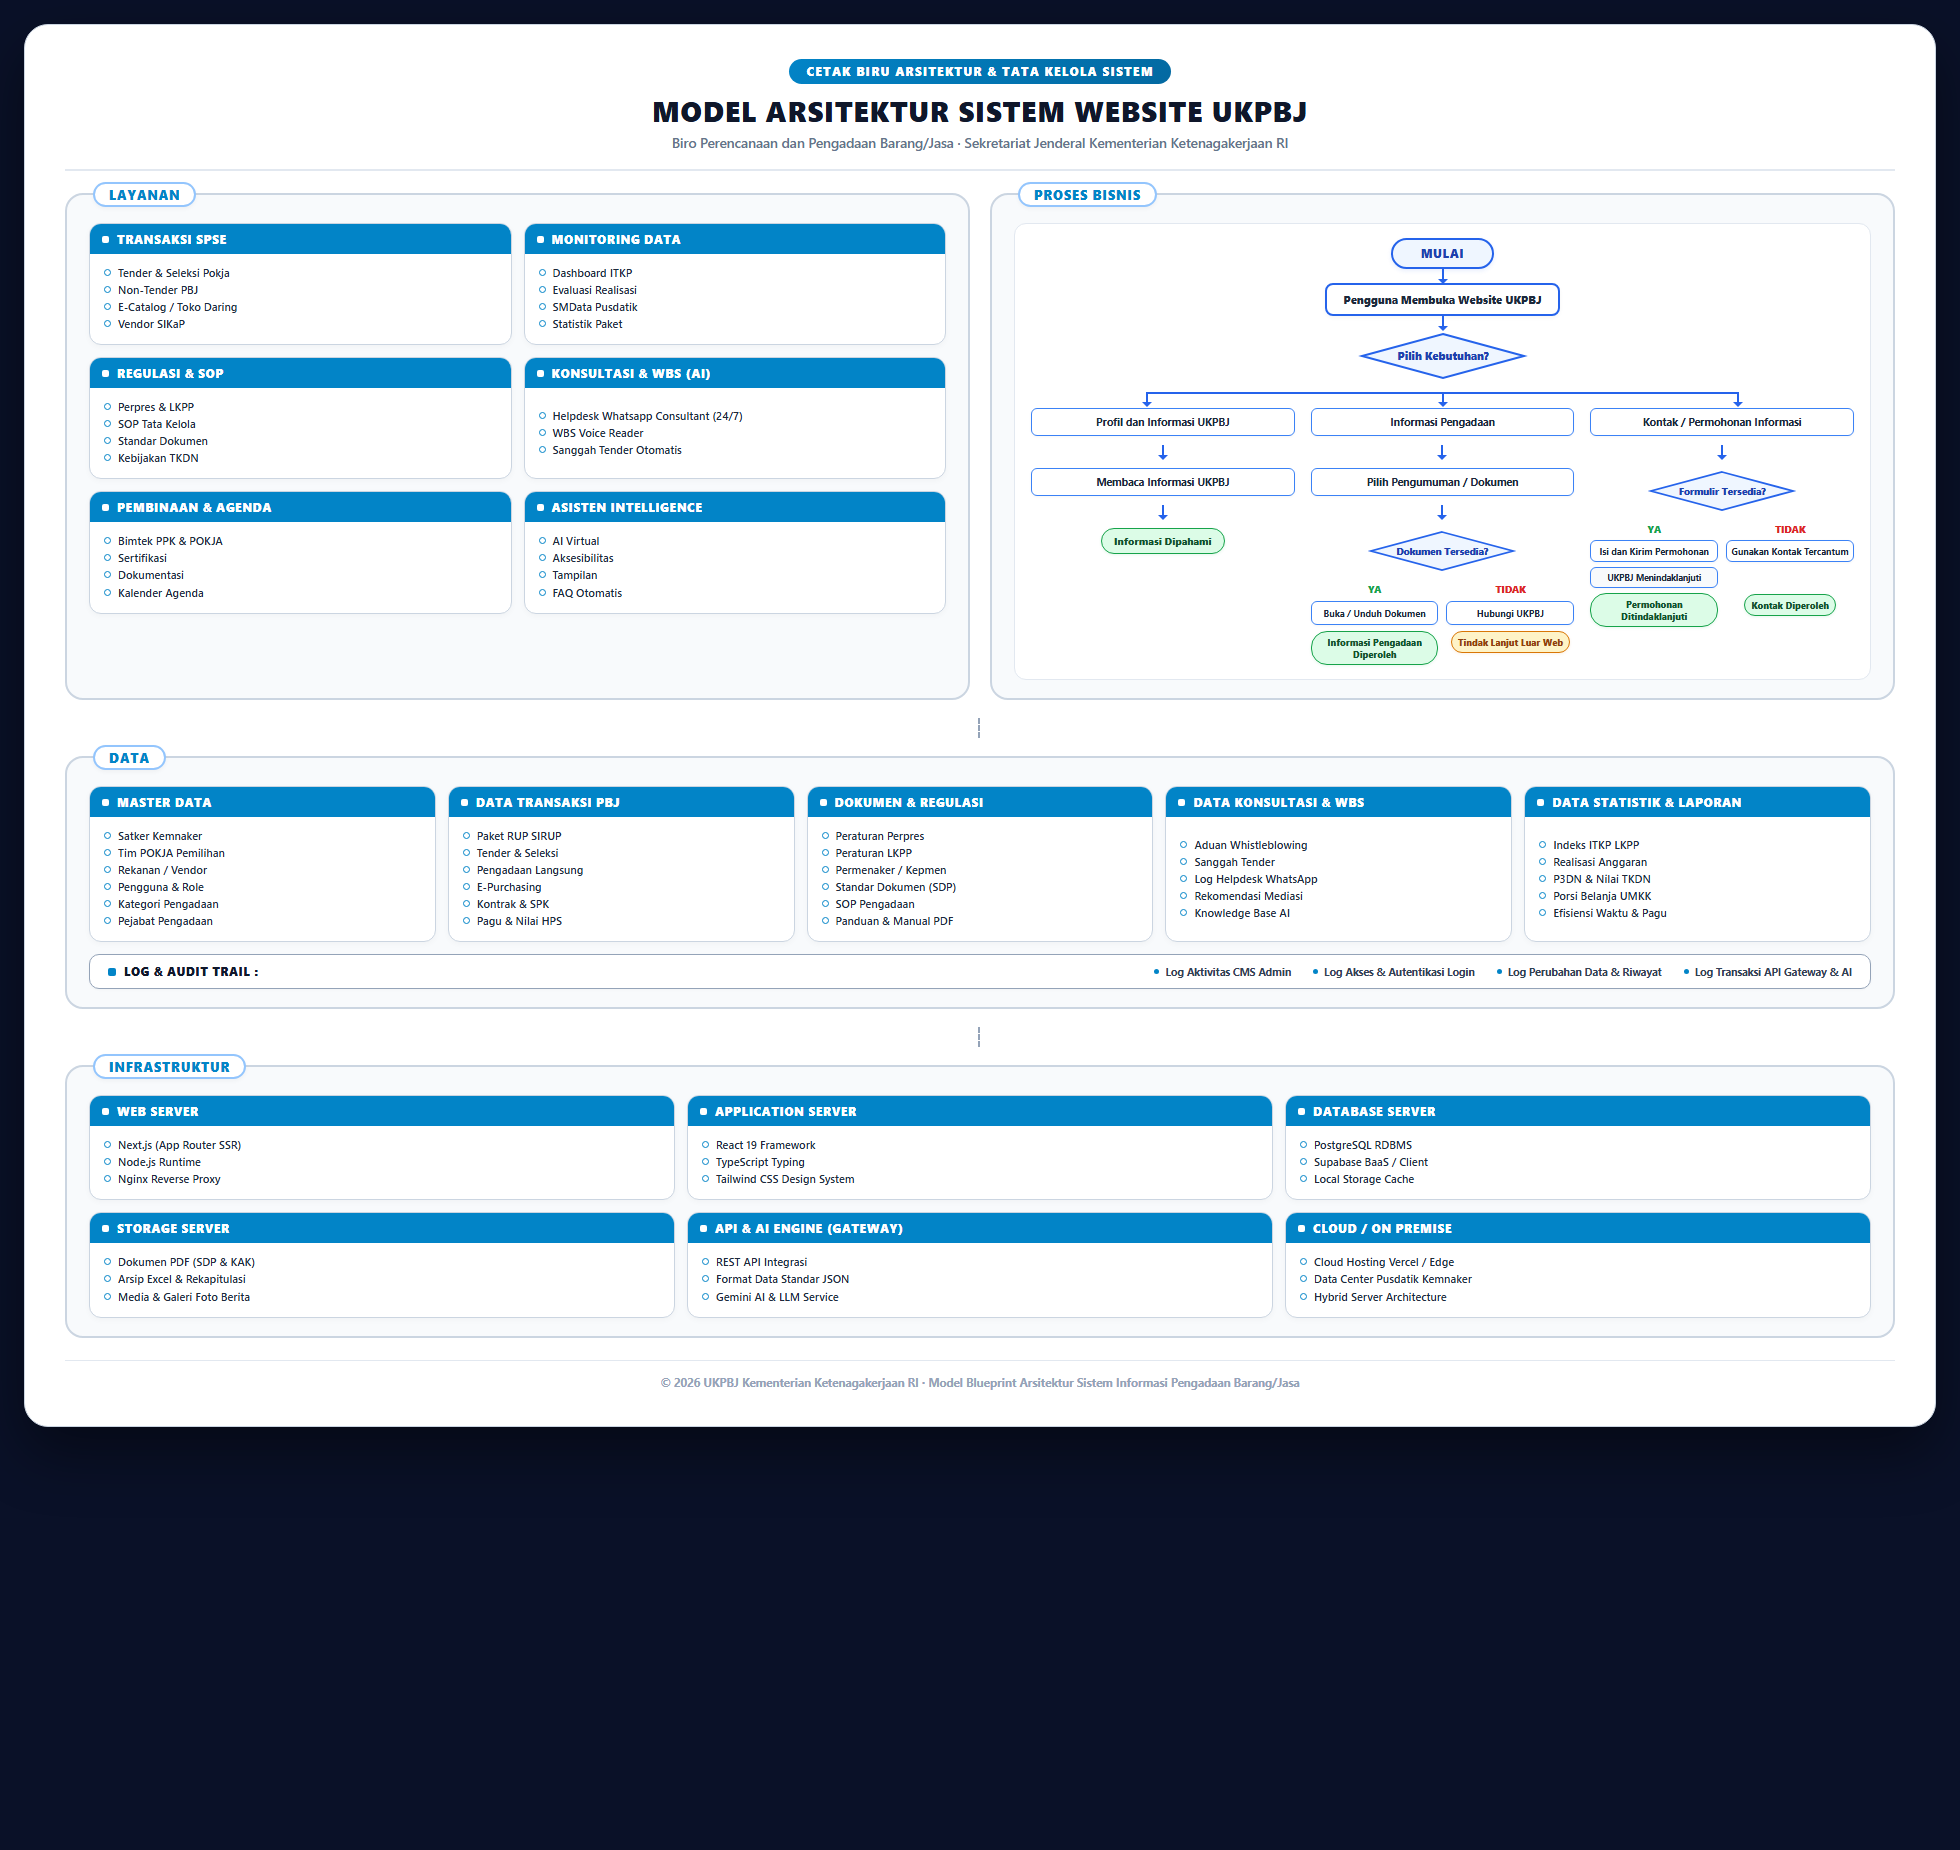
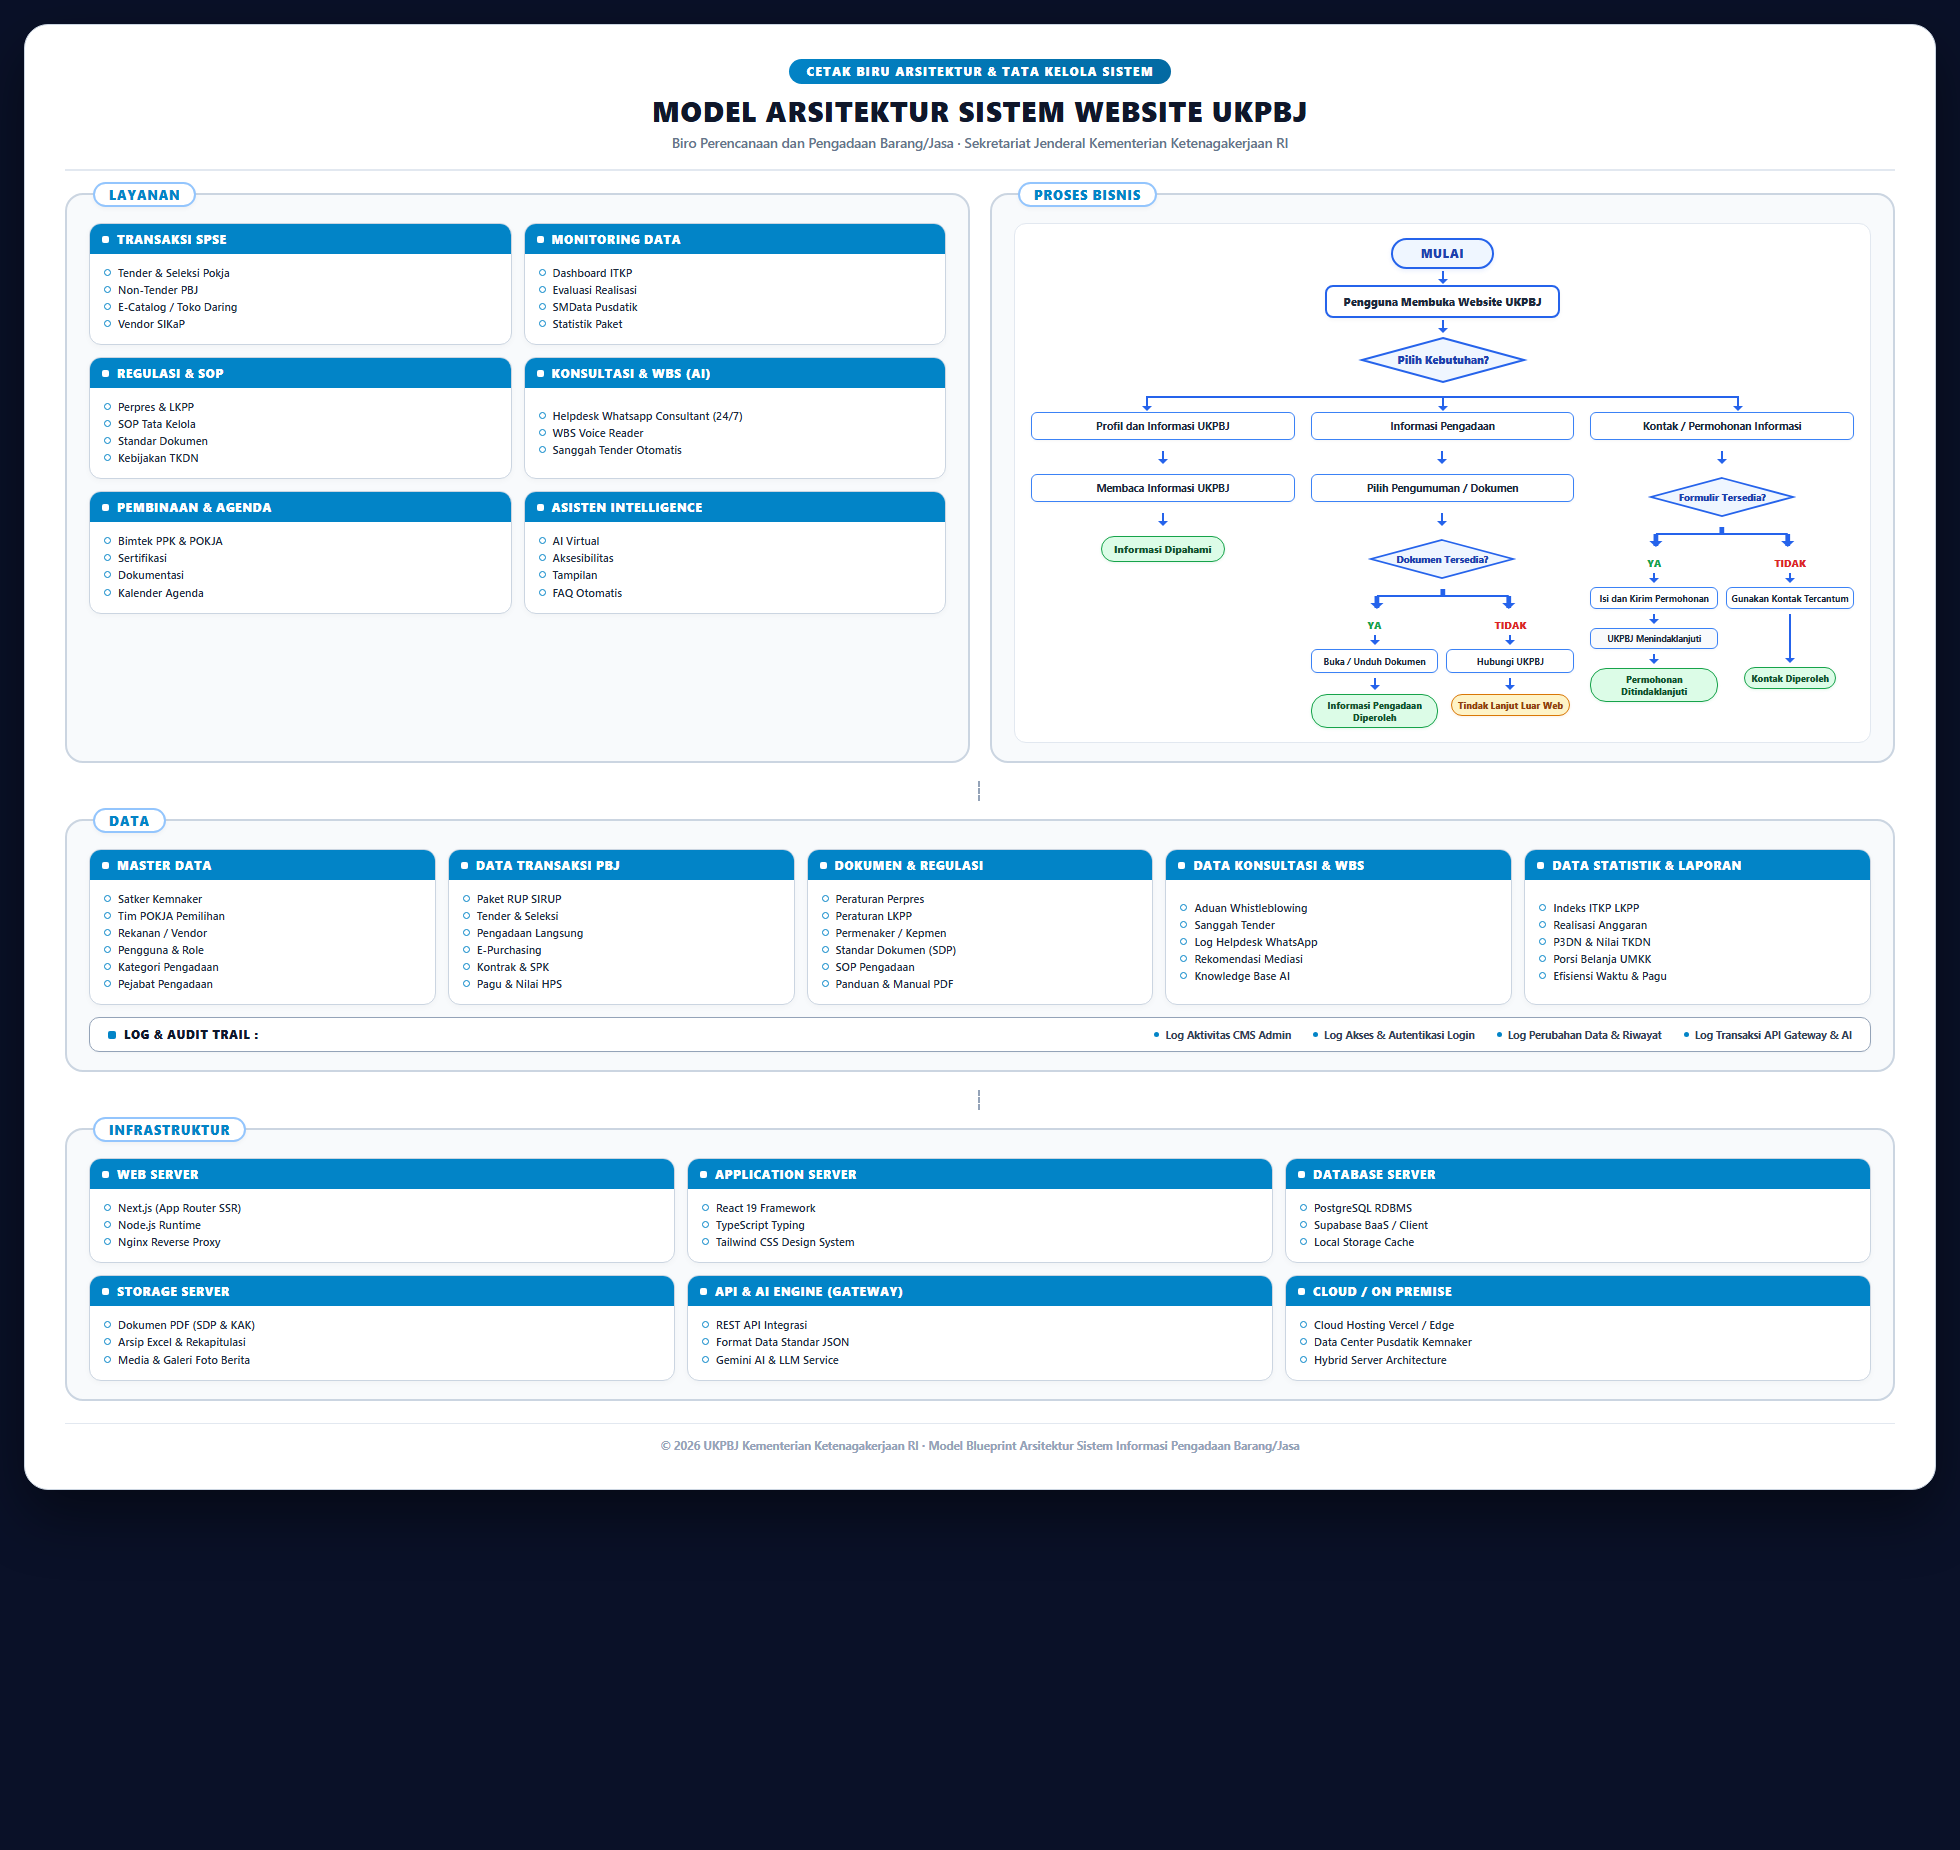
refactor: update flowchart layout and connection lines in system blueprint

Changed region(s): [[0.0, 0.1541, 0.9959, 0.8319], [0.5602, 0.2157, 0.6536, 0.3081]]

diff --git a/blueprint_sistem_ukpbj.html b/blueprint_sistem_ukpbj.html
@@ -261,12 +261,31 @@
 
     .fc-line-down {
       width: 2px;
-      height: 14px;
+      height: 12px;
       background: #2563eb;
       position: relative;
+      margin: 2px 0;
     }
 
     .fc-line-down::after {
+      content: "";
+      position: absolute;
+      bottom: -1px;
+      left: -4px;
+      border-left: 5px solid transparent;
+      border-right: 5px solid transparent;
+      border-top: 5px solid #2563eb;
+    }
+
+    .fc-line-down-long {
+      width: 2px;
+      height: 48px;
+      background: #2563eb;
+      position: relative;
+      margin: 2px 0;
+    }
+
+    .fc-line-down-long::after {
       content: "";
       position: absolute;
       bottom: -1px;
@@ -625,16 +644,32 @@
                 </svg>
               </div>
 
+              <!-- CONNECTOR FROM DIAMOND TO YA & TIDAK -->
+              <div style="width: 100%; height: 20px; position: relative; margin-top: -2px; margin-bottom: 2px;">
+                <svg width="100%" height="20" viewBox="0 0 100 20" preserveAspectRatio="none" style="overflow: visible;">
+                  <line x1="50" y1="0" x2="50" y2="7" stroke="#2563eb" stroke-width="1.8"/>
+                  <line x1="25" y1="7" x2="75" y2="7" stroke="#2563eb" stroke-width="1.8"/>
+                  <line x1="25" y1="7" x2="25" y2="19" stroke="#2563eb" stroke-width="1.8"/>
+                  <polygon points="22.5,14 27.5,14 25,20" fill="#2563eb"/>
+                  <line x1="75" y1="7" x2="75" y2="19" stroke="#2563eb" stroke-width="1.8"/>
+                  <polygon points="72.5,14 77.5,14 75,20" fill="#2563eb"/>
+                </svg>
+              </div>
+
               <!-- SUB-BRANCHES YA / TIDAK -->
               <div style="display: grid; grid-template-columns: 1fr 1fr; gap: 8px; width: 100%;">
-                <div style="display: flex; flex-direction: column; align-items: center; gap: 6px;">
-                  <span style="font-size: 9.5px; font-weight: 900; color: #16a34a;">YA</span>
+                <div style="display: flex; flex-direction: column; align-items: center; gap: 3px;">
+                  <span style="font-size: 10px; font-weight: 900; color: #16a34a; line-height: 1;">YA</span>
+                  <div class="fc-line-down" style="height: 9px;"></div>
                   <div class="node-rect-white" style="font-size: 9px; padding: 5px;">Buka / Unduh Dokumen</div>
+                  <div class="fc-line-down" style="height: 11px;"></div>
                   <div class="node-pill-green" style="font-size: 9px; padding: 4px 6px;">Informasi Pengadaan Diperoleh</div>
                 </div>
-                <div style="display: flex; flex-direction: column; align-items: center; gap: 6px;">
-                  <span style="font-size: 9.5px; font-weight: 900; color: #dc2626;">TIDAK</span>
+                <div style="display: flex; flex-direction: column; align-items: center; gap: 3px;">
+                  <span style="font-size: 10px; font-weight: 900; color: #dc2626; line-height: 1;">TIDAK</span>
+                  <div class="fc-line-down" style="height: 9px;"></div>
                   <div class="node-rect-white" style="font-size: 9px; padding: 5px;">Hubungi UKPBJ</div>
+                  <div class="fc-line-down" style="height: 11px;"></div>
                   <div class="node-pill-amber" style="font-size: 9px; padding: 4px 6px;">Tindak Lanjut Luar Web</div>
                 </div>
               </div>
@@ -653,18 +688,34 @@
                 </svg>
               </div>
 
+              <!-- CONNECTOR FROM DIAMOND TO YA & TIDAK -->
+              <div style="width: 100%; height: 20px; position: relative; margin-top: -2px; margin-bottom: 2px;">
+                <svg width="100%" height="20" viewBox="0 0 100 20" preserveAspectRatio="none" style="overflow: visible;">
+                  <line x1="50" y1="0" x2="50" y2="7" stroke="#2563eb" stroke-width="1.8"/>
+                  <line x1="25" y1="7" x2="75" y2="7" stroke="#2563eb" stroke-width="1.8"/>
+                  <line x1="25" y1="7" x2="25" y2="19" stroke="#2563eb" stroke-width="1.8"/>
+                  <polygon points="22.5,14 27.5,14 25,20" fill="#2563eb"/>
+                  <line x1="75" y1="7" x2="75" y2="19" stroke="#2563eb" stroke-width="1.8"/>
+                  <polygon points="72.5,14 77.5,14 75,20" fill="#2563eb"/>
+                </svg>
+              </div>
+
               <!-- SUB-BRANCHES YA / TIDAK -->
               <div style="display: grid; grid-template-columns: 1fr 1fr; gap: 8px; width: 100%;">
-                <div style="display: flex; flex-direction: column; align-items: center; gap: 5px;">
-                  <span style="font-size: 9.5px; font-weight: 900; color: #16a34a;">YA</span>
+                <div style="display: flex; flex-direction: column; align-items: center; gap: 3px;">
+                  <span style="font-size: 10px; font-weight: 900; color: #16a34a; line-height: 1;">YA</span>
+                  <div class="fc-line-down" style="height: 9px;"></div>
                   <div class="node-rect-white" style="font-size: 9px; padding: 4px;">Isi dan Kirim Permohonan</div>
+                  <div class="fc-line-down" style="height: 9px;"></div>
                   <div class="node-rect-white" style="font-size: 8.5px; padding: 4px; background: #f8fafc;">UKPBJ Menindaklanjuti</div>
+                  <div class="fc-line-down" style="height: 9px;"></div>
                   <div class="node-pill-green" style="font-size: 9px; padding: 4px 6px;">Permohonan Ditindaklanjuti</div>
                 </div>
-                <div style="display: flex; flex-direction: column; align-items: center; gap: 5px;">
-                  <span style="font-size: 9.5px; font-weight: 900; color: #dc2626;">TIDAK</span>
+                <div style="display: flex; flex-direction: column; align-items: center; gap: 3px;">
+                  <span style="font-size: 10px; font-weight: 900; color: #dc2626; line-height: 1;">TIDAK</span>
+                  <div class="fc-line-down" style="height: 9px;"></div>
                   <div class="node-rect-white" style="font-size: 9px; padding: 4px;">Gunakan Kontak Tercantum</div>
-                  <div style="height: 22px;"></div>
+                  <div class="fc-line-down-long"></div>
                   <div class="node-pill-green" style="font-size: 9px; padding: 4px 6px;">Kontak Diperoleh</div>
                 </div>
               </div>
